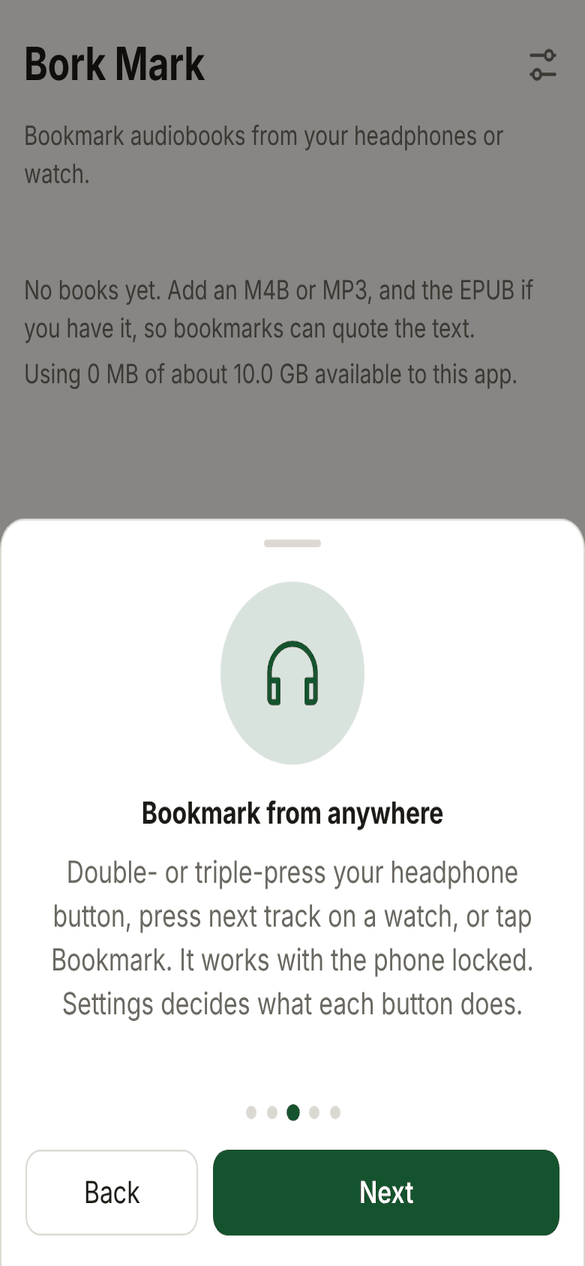
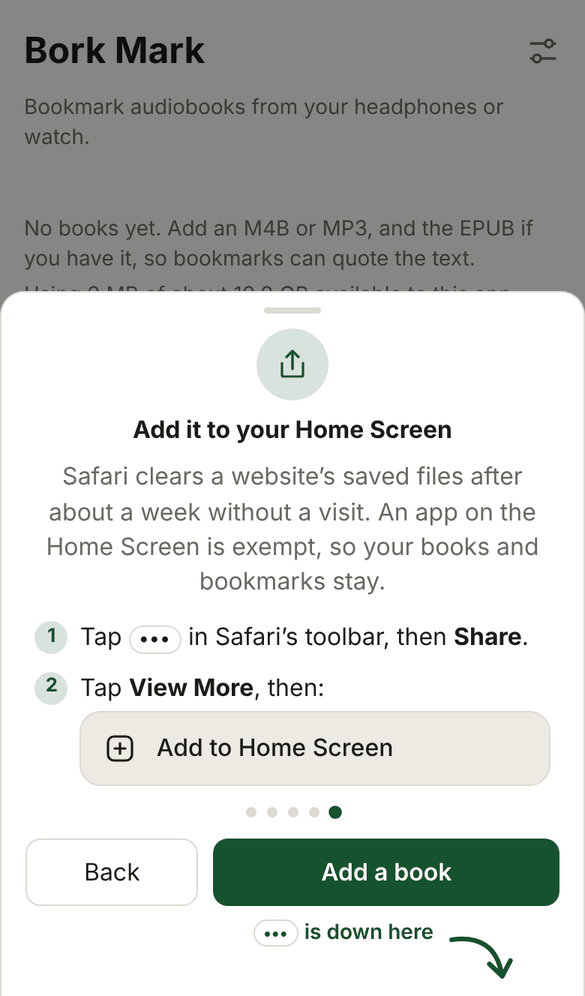
Intro: explain why the Home Screen app is needed, with share sheet steps and an arrow
Claude-Session: https://claude.ai/code/session_018kUtteGJLH6kfEyY4LEyTL

diff --git a/index.html b/index.html
@@ -430,8 +430,23 @@
   #introArt { width: 96px; height: 96px; margin: 18px auto 14px; border-radius: 50%; display: grid; place-items: center; background: var(--tint); color: var(--accent); }
   #introArt svg { width: 46px; height: 46px; fill: none; stroke: currentColor; stroke-width: 1.6; stroke-linecap: round; stroke-linejoin: round; }
   #introTitle { margin: 0 0 8px; }
-  #introBody { margin: 0 auto; max-width: 34ch; min-height: 7.5em; color: var(--muted); }
-  #introDots { display: flex; justify-content: center; gap: 7px; margin: 14px 0 16px; }
+  #introBody { margin: 0 auto; max-width: 34ch; min-height: 6em; color: var(--muted); }
+  #introStep.compact #introArt { width: 48px; height: 48px; margin: 4px auto 8px; }
+  #introStep.compact #introArt svg { width: 24px; height: 24px; }
+  #introStep.compact #introBody { min-height: 0; }
+  #introHow { list-style: none; counter-reset: how; margin: 14px auto 0; padding: 0; max-width: 34ch; text-align: left; display: grid; gap: 10px; }
+  #introHow[hidden], #introArrow[hidden] { display: none; }
+  #introHow li { counter-increment: how; display: grid; grid-template-columns: 22px minmax(0, 1fr); gap: 4px 8px; align-items: start; }
+  #introHow li::before { content: counter(how); width: 22px; height: 22px; border-radius: 50%; background: var(--tint); color: var(--accent); font-size: 0.8rem; font-weight: 700; display: grid; place-items: center; margin-top: 1px; }
+  #introHow .dots, #introArrow .dots { letter-spacing: 1px; font-size: 0.8em; padding: 1px 6px; border: 1px solid var(--line); border-radius: 999px; white-space: nowrap; }
+  /* drawn to look like the row in the iOS share sheet */
+  .sheetrow { grid-column: 2; display: flex; align-items: center; gap: 12px; padding: 12px 14px; border-radius: 14px; background: var(--soft); border: 1px solid var(--line); font-weight: 500; }
+  .sheetrow svg { width: 24px; height: 24px; flex: none; fill: none; stroke: currentColor; stroke-width: 1.6; stroke-linecap: round; stroke-linejoin: round; }
+  #introArrow { display: flex; justify-content: flex-end; align-items: flex-start; gap: 6px; margin: 8px 34px -6px 0; color: var(--accent); font-size: 0.875rem; font-weight: 600; }
+  #introArrow svg { width: 44px; height: 36px; fill: none; stroke: currentColor; stroke-width: 3.5; stroke-linecap: round; stroke-linejoin: round; margin-top: 6px; animation: nudge 1.2s ease-in-out infinite; }
+  @keyframes nudge { 50% { transform: translate(3px, 4px); } }
+  @media (prefers-reduced-motion: reduce) { #introArrow svg { animation: none; } }
+  #introDots { display: flex; justify-content: center; gap: 7px; margin: 14px 0 14px; }
   #introDots span { width: 7px; height: 7px; border-radius: 50%; background: var(--line); transition: background 0.2s, transform 0.2s; }
   #introDots span.on { background: var(--accent); transform: scale(1.25); }
   #introDlg .introrow { display: grid; grid-template-columns: 1fr 2fr; gap: 10px; }
@@ -817,9 +832,15 @@
     <div id="introArt"></div>
     <h2 id="introTitle" tabindex="-1" autofocus></h2>
     <p id="introBody"></p>
+    <ol id="introHow" hidden>
+      <li><span>Tap <b class="dots" aria-label="the three dots">•••</b> in Safari’s toolbar, then <b>Share</b>.</span></li>
+      <li><span>Tap <b>View More</b>, then:</span>
+        <div class="sheetrow" aria-label="Add to Home Screen"><svg viewBox="0 0 24 24" aria-hidden="true"><rect x="4" y="4" width="16" height="16" rx="4"/><path d="M12 8.5v7M8.5 12h7"/></svg>Add to Home Screen</div></li>
+    </ol>
   </div>
   <div id="introDots" aria-hidden="true"></div>
   <div class="introrow"><button id="introSkip">Skip</button><button id="introNext" class="primary">Next</button></div>
+  <p id="introArrow" hidden><span><b class="dots">•••</b> is down here</span><svg viewBox="0 0 48 40" aria-hidden="true"><path d="M3 5c20-3 34 5 37 26"/><path d="M31 23l9.5 9 6-11.500"/></svg></p>
 </dialog>
 
 <dialog id="chapDlg" class="bottom">

diff --git a/app.js b/app.js
@@ -2337,7 +2337,7 @@ $('appReload').addEventListener('click', async () => {
 });
 // Every published build has a number, here and in version.json. When the
 // server's number differs from this one, a newer version is waiting.
-const BUILD = '1795541071';
+const BUILD = '1795544896';
 const buildDate = (b) => new Date(Number(b) * 1000).toLocaleString([], { dateStyle: 'medium', timeStyle: 'short' });
 async function latestBuild() {
   const res = await fetch('version.json', { cache: 'no-store' });
@@ -2394,14 +2394,22 @@ const INTRO = [
     body: 'Double- or triple-press your headphone button, press next track on a watch, or tap Bookmark. It works with the phone locked. Settings decides what each button does.' },
   { art: 'M6 9a3 3 0 1 0 0-6 3 3 0 0 0 0 6zM6 21a3 3 0 1 0 0-6 3 3 0 0 0 0 6zM20 4L8.1 15.9M14.5 14.5L20 20M8.1 8.1L12 12', title: 'Trim, cite and share',
     body: 'The app listens to a few seconds around each bookmark and finds them in the text. Open Bookmarks to trim a quote to the sentences you want, then copy or share it with a citation.' },
-  { art: 'M12 15V3M8 7l4-4 4 4M5 11v8a1 1 0 0 0 1 1h12a1 1 0 0 0 1-1v-8', title: 'Keep it on your Home Screen',
-    body: 'In Safari, tap Share, then Add to Home Screen. The app opens full screen, works without signal, and iOS keeps your books stored.' },
+  { art: 'M12 15V3M8 7l4-4 4 4M5 11v8a1 1 0 0 0 1 1h12a1 1 0 0 0 1-1v-8', title: 'Add it to your Home Screen', home: true,
+    body: 'Safari clears a website’s saved files after about a week without a visit. An app on the Home Screen is exempt, so your books and bookmarks stay.' },
 ];
 let introAt = 0;
+const installed = () => navigator.standalone === true || matchMedia('(display-mode: standalone)').matches;
+const onIOS = /iPhone|iPad|iPod/.test(navigator.userAgent);
 function renderIntro() {
   const step = INTRO[introAt], last = introAt === INTRO.length - 1;
-  $('introArt').replaceChildren(icon(step.art));
-  $('introTitle').textContent = step.title; $('introBody').textContent = step.body;
+  // The Home Screen step shows how to get there, unless that is where we are.
+  const done = step.home && installed();
+  $('introArt').replaceChildren(icon(done ? 'M5 12.5l4.5 4.500L19 7.500' : step.art));
+  $('introTitle').textContent = done ? 'You’re on the Home Screen' : step.title;
+  $('introBody').textContent = done ? 'Opened from here, iOS keeps your books and bookmarks. In Safari itself, a website’s saved files are cleared after about a week without a visit.' : step.body;
+  $('introHow').hidden = !step.home || done;
+  $('introStep').classList.toggle('compact', !!step.home && !done);
+  $('introArrow').hidden = !step.home || done || !onIOS;
   $('introDots').replaceChildren(...INTRO.map((_, k) => el('span', k === introAt ? 'on' : '')));
   $('introNext').textContent = last ? (state.books.length ? 'Done' : 'Add a book') : 'Next';
   $('introSkip').textContent = introAt ? 'Back' : 'Skip';

diff --git a/README.md b/README.md
@@ -15,7 +15,7 @@ Press a button while you listen and Bork Mark saves the place. It then finds the
 
 ## Getting started
 
-1. Open the link above in Safari on your iPhone. Tap Share, then **Add to Home Screen**, so iOS keeps your books stored and the app opens full screen.
+1. Open the link above in Safari on your iPhone. Tap **•••**, then **Share**, then **Add to Home Screen** (it may be under View More). This matters: Safari clears a website's saved files after about a week without a visit, and only an app on the Home Screen is exempt. Without it, your books and bookmarks can disappear.
 2. Tap **Add a book** and pick the audio file (M4B or MP3). Add the EPUB too if you have it, and a PDF of the print edition if you want printed page numbers.
 3. Press play. To bookmark, double- or triple-press your headphone button, press next track on a watch, or tap **Bookmark**. It works with the phone locked.
 4. Open **Bookmarks** to read, trim, copy or share your quotes.
@@ -23,7 +23,7 @@ Press a button while you listen and Bork Mark saves the place. It then finds the
 Files must be free of copy protection, such as the downloads from Libro.fm. A short guide covers the same steps the first time you open the app; Settings can show it again.
 
 <p>
-  <img src="docs/img/intro.png" width="24%" alt="Intro guide step: bookmark from anywhere">
+  <img src="docs/img/intro.png" width="24%" alt="Intro guide step: why and how to add the app to the Home Screen">
 </p>
 
 ## What it does
